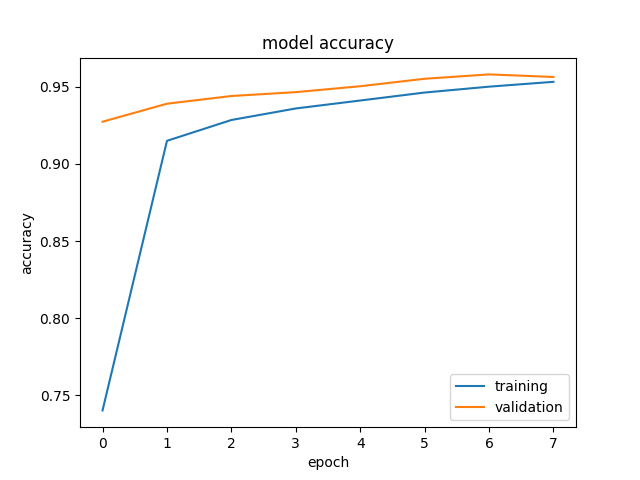
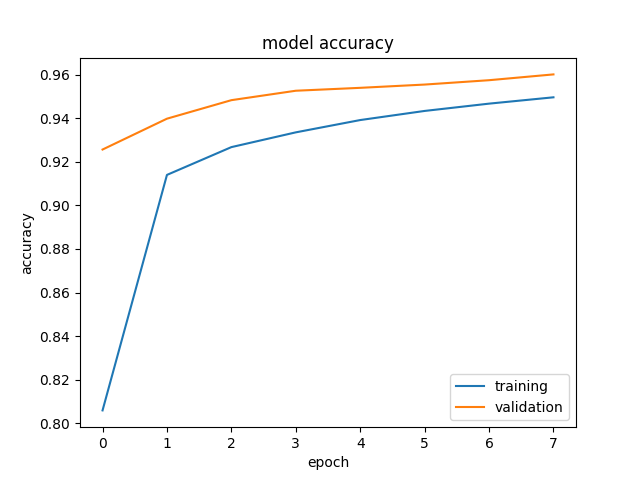
Replaired plors + updated readme

diff --git a/convolutional-neural-network.py b/convolutional-neural-network.py
@@ -141,6 +141,7 @@ class ConvolutionalNeuralNetwork:
         plt.legend(['training', 'validation'], loc='best')
         plt.savefig(plotDir + 'cnn-accu-plt.png')
         # plt.show()
+        plt.close()
 
     def modelLossPlot(self):
         plt.plot(self.history.history['loss'])
@@ -148,9 +149,10 @@ class ConvolutionalNeuralNetwork:
         plt.title('model loss')
         plt.ylabel('loss')
         plt.xlabel('epoch')
-        plt.legend(['train', 'test'], loc='upper left')
+        plt.legend(['train', 'test'], loc='best')
         plt.savefig(plotDir + 'cnn-loss-plt.png')
         # plt.show()
+        plt.close()
 
     def modelMSEPlot(self):
         plt.plot(self.history.history['accuracy'])
@@ -161,6 +163,7 @@ class ConvolutionalNeuralNetwork:
         plt.legend(['training', 'validation'], loc='best')
         plt.savefig(plotDir + 'cnn-mse-plt.png')
         # plt.show()
+        plt.close()
 
     def printDigit(self):
         pass

diff --git a/regular-neural-network.py b/regular-neural-network.py
@@ -142,6 +142,7 @@ class RegularNeuralNetwork:
         plt.legend(['training', 'validation'], loc='best')
         plt.savefig(plotDir + 'rnn-accu-plt.png')
         # plt.show()
+        plt.close()
 
     def modelLossPlot(self):
         plt.plot(self.history.history['loss'])
@@ -149,9 +150,10 @@ class RegularNeuralNetwork:
         plt.title('model loss')
         plt.ylabel('loss')
         plt.xlabel('epoch')
-        plt.legend(['train', 'test'], loc='upper left')
+        plt.legend(['train', 'test'], loc='best')
         plt.savefig(plotDir + 'rnn-loss-plt.png')
         # plt.show()
+        plt.close()
 
     def modelMSEPlot(self):
         plt.plot(self.history.history['accuracy'])
@@ -162,6 +164,7 @@ class RegularNeuralNetwork:
         plt.legend(['training', 'validation'], loc='best')
         plt.savefig(plotDir + 'rnn-mse-plt.png')
         # plt.show()
+        plt.close()
 
     def printDigit(self):
         pass

diff --git a/readme.md b/readme.md
@@ -1,18 +1,40 @@
-### **RNN**
+# *****Comparison of effectiveness of Regular and Convolutional Neural Networks in handwritten series recognition.***** 
 
-###### **Accuracy plot :**
+### **DataSet :** MNIST
+
+### **CPU :** Intel i7-8750H 2.2 GHz (***TurboBoost off***)
+
+## **RNN**
+### **batch size :** 128
+### **number of epochs :** 8 
+### **number of parameters :** 12 975 
+### **accuracy :** ~94.5% 
+### **loss :** ~0.173 
+### **mse :** ~0.0079 
+### **time of training :** ~10s 
+
+
+### **Accuracy plot :**
 ![AccuracyPlot](./plots/rnn-accu-plt.png)
-###### **Loss plot :**
+### **Loss plot :**
 ![AccuracyPlot](./plots/rnn-loss-plt.png)
-###### **MSE plot :**
+### **MSE plot :**
 ![AccuracyPlot](./plots/rnn-mse-plt.png)
 
 
 ## **CNN**
 
-###### **Accuracy plot :**
+### ** batch size :** 128 
+### ** number of epochs :** 8 
+### ** number of parameters :** 12 980 
+### ** accuracy :** ~96.5% 
+### ** loss :** ~0.104 
+### ** mse :** ~0.0049 
+### **time of training :** ~50s 
+
+### **Accuracy plot :**
 ![AccuracyPlot](./plots/cnn-accu-plt.png)
-###### **Loss plot :**
+### **Loss plot :**
 ![AccuracyPlot](./plots/cnn-loss-plt.png)
-###### **MSE plot :**
+### **MSE plot :**
 ![AccuracyPlot](./plots/cnn-mse-plt.png)
